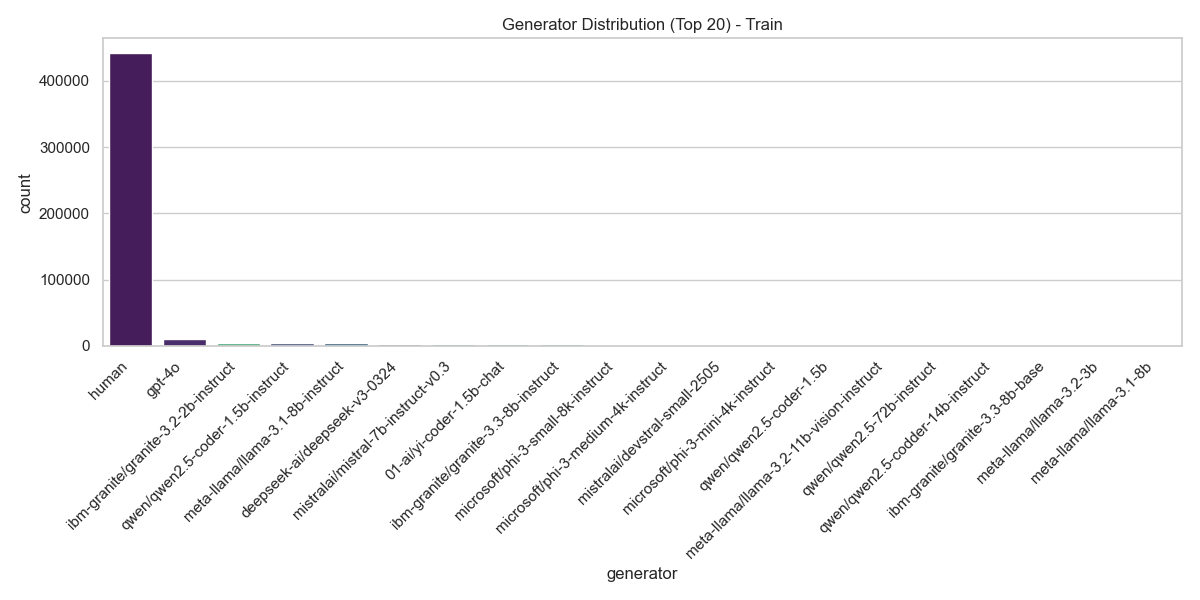
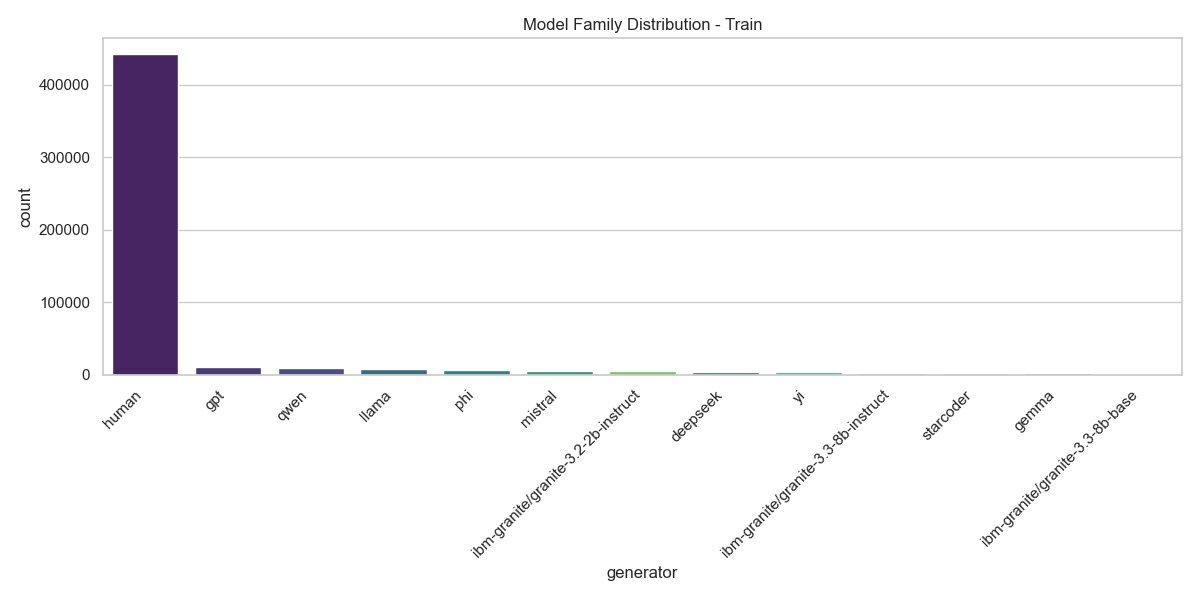
modifiche ai readme

diff --git a/info_dataset/info_dataset_subTaskB.py b/info_dataset/info_dataset_subTaskB.py
@@ -12,17 +12,43 @@ load_dotenv()
 # Base paths
 BASE_DATA_PATH = os.getenv("DATA_PATH", "./data")
 TASK_B_DIR = os.path.join(BASE_DATA_PATH, "Task_B")
-IMG_PATH = os.getenv("IMG_PATH", "./img_TaskB")
+IMG_PATH = os.getenv("IMG_PATH", "img/img_TaskB")
 
 # Ensure output directory exists
 os.makedirs(IMG_PATH, exist_ok=True)
 
-# File configuration
 FILES = {
     "Train": "train.parquet",
     "Validation": "validation.parquet",
-    "Test": "test.parquet"
+    "Test": "test_sample.parquet"
 }
+
+# -----------------------------------------------------------------------------
+# Label Normalization Logic
+# -----------------------------------------------------------------------------
+def map_to_family(model_name: str) -> str:
+    """
+    Mappa le 31 varianti specifiche in 11 famiglie di modelli principali.
+    Logica basata sulla presenza di sottostringhe.
+    """
+    if pd.isna(model_name):
+        return "unknown"
+        
+    name = str(model_name).lower().strip()
+
+    if 'llama' in name: return 'llama'
+    if 'gpt' in name: return 'gpt'
+    if 'mistral' in name or 'mixtral' in name: return 'mistral'
+    if 'gemma' in name: return 'gemma'
+    if 'claude' in name: return 'claude'
+    if 'qwen' in name: return 'qwen'
+    if 'phi' in name: return 'phi'
+    if 'deepseek' in name: return 'deepseek'
+    if 'starcoder' in name: return 'starcoder'
+    if 'yi' in name: return 'yi'
+    if 'gemini' in name: return 'gemini'
+    
+    return name
 
 # -----------------------------------------------------------------------------
 # Data Loading & Preprocessing
@@ -47,25 +73,23 @@ def load_and_preprocess(file_name: str) -> pd.DataFrame:
     
     if 'generator' in df.columns:
         df['generator'] = df['generator'].str.lower().str.strip()
+        
+        print(f"   -> Mapping generators (original unique: {df['generator'].nunique()})...")
+        df['generator'] = df['generator'].apply(map_to_family)
+        print(f"   -> Mapped to families (new unique: {df['generator'].nunique()})")
     
-    # 2. Feature Engineering Avanzata
+    # 2. Feature Engineering
     if 'code' in df.columns:
-        # Lunghezza in caratteri
         df['char_length'] = df['code'].str.len()
-        
-        # Lunghezza in linee (utile: alcuni LLM sono più "verticali" di altri)
         df['line_count'] = df['code'].str.count('\n') + 1
-        
-        # Lunghezza in token (approssimazione splitting per spazi)
         df['token_count_approx'] = df['code'].apply(lambda x: len(str(x).split()))
 
-        # Rimuovi snippet vuoti o nulli
+        # Rimuovi snippet vuoti
         initial_len = len(df)
         df = df[df['char_length'] > 0].copy()
         if len(df) < initial_len:
             print(f"   -> Removed {initial_len - len(df)} empty rows.")
 
-        # Preview per display
         df['code_preview'] = df['code'].str[:100].str.replace('\n', '\\n')
     
     return df
@@ -77,82 +101,48 @@ def eda_dataset(df: pd.DataFrame, dataset_name: str):
     if df is None: return
 
     print(f"\n{'='*60}\nEDA REPORT: {dataset_name}\n{'='*60}")
-    
-    # 1. General Stats
     print(f"Total Samples: {len(df)}")
     
-    # Check duplicati
     if 'code' in df.columns:
         num_dupes = df.duplicated(subset=['code']).sum()
         if num_dupes > 0:
-            print(f"\n[WARNING] Found {num_dupes} duplicate code snippets! ({num_dupes/len(df):.2%})")
-        else:
-            print("\n[OK] No exact duplicate code snippets found.")
+            print(f"[WARNING] Found {num_dupes} duplicate snippets.")
 
-    print("\n--- Data Sample ---")
-    # Mostra colonne disponibili dinamicamente
-    cols_available = [c for c in ['generator', 'language', 'line_count', 'code_preview'] if c in df.columns]
-    print(df[cols_available].head())
-    
-    # 2. Class Distribution (Solo se abbiamo le label)
+    # 2. Class Distribution
     if 'generator' in df.columns:
-        print("\n--- Class Distribution (Top 10) ---")
+        print("\n--- Class Distribution (Families) ---")
         class_counts = df['generator'].value_counts()
-        print(class_counts.head(10))
+        print(class_counts)
+        print(f"Total Labels Found: {len(class_counts)}")
         
-        balance_ratio = class_counts.min() / class_counts.max()
-        print(f"\nClass Balance Ratio (Min/Max): {balance_ratio:.4f}")
-        if balance_ratio < 0.1:
-            print("[ALERT] Dataset is heavily imbalanced!")
-
-    # 3. Stats sulle lunghezze
-    print("\n--- Length Statistics (Tokens Approx) ---")
-    print(df['token_count_approx'].describe())
+        if len(class_counts) != 11 and dataset_name != "Test":
+            print(f"[NOTE] Attenzione: Trovate {len(class_counts)} label invece di 11.")
 
     # ---------------------------------------
     # Visualizations
     # ---------------------------------------
     sns.set_theme(style="whitegrid")
-    palette = "viridis"
-
-    # --- PLOT GENERICI (Funzionano anche per TEST set senza label) ---
     
-    # Plot 1: Istogramma distribuzione lunghezza (Generale)
-    plt.figure(figsize=(10, 6))
-    # Taglio al 95% per leggibilità
-    limit = df['token_count_approx'].quantile(0.95)
-    viz_df = df[df['token_count_approx'] < limit]
-    
-    sns.histplot(viz_df['token_count_approx'], bins=50, kde=True, color="teal")
-    plt.title(f"Token Count Distribution (General) - {dataset_name}")
-    plt.xlabel("Tokens (Approx)")
-    plt.tight_layout()
-    plt.savefig(os.path.join(IMG_PATH, f"{dataset_name}_token_dist_general.png"))
-    plt.close()
-
-    # --- PLOT SPECIFICI (Solo per TRAIN/VAL con label) ---
-
-    # Plot A: Class Balance
+    # Plot A: Class Balance (Aggiornato per le famiglie)
     if 'generator' in df.columns:
         plt.figure(figsize=(12, 6))
-        class_counts = df['generator'].value_counts()
-        top_classes = class_counts.head(20).index
-        sns.countplot(data=df[df['generator'].isin(top_classes)], x='generator', order=top_classes, palette=palette, hue='generator', legend=False)
-        plt.title(f"Generator Distribution (Top 20) - {dataset_name}")
+        sns.countplot(data=df, x='generator', order=df['generator'].value_counts().index, palette="viridis", hue='generator', legend=False)
+        plt.title(f"Model Family Distribution - {dataset_name}")
         plt.xticks(rotation=45, ha='right')
         plt.tight_layout()
         plt.savefig(os.path.join(IMG_PATH, f"{dataset_name}_class_dist.png"))
         plt.close()
 
-    # Plot B: Token Length vs Generator
+    # Plot B: Token Length vs Generator Family
     if 'generator' in df.columns:
         plt.figure(figsize=(14, 8))
         limit = df['token_count_approx'].quantile(0.95)
         viz_df = df[df['token_count_approx'] < limit]
+        
         order = viz_df.groupby('generator')['token_count_approx'].median().sort_values(ascending=False).index
         
         sns.boxplot(data=viz_df, x='generator', y='token_count_approx', order=order, palette="coolwarm", hue='generator', legend=False)
-        plt.title(f"Token Count by Generator - {dataset_name}")
+        plt.title(f"Token Count by Model Family - {dataset_name}")
         plt.xticks(rotation=45, ha='right')
         plt.tight_layout()
         plt.savefig(os.path.join(IMG_PATH, f"{dataset_name}_token_boxplot.png"))
@@ -160,19 +150,19 @@ def eda_dataset(df: pd.DataFrame, dataset_name: str):
 
     # Plot C: Heatmap
     if 'generator' in df.columns and 'language' in df.columns:
-        plt.figure(figsize=(12, 10))
-        top_langs = df['language'].value_counts().head(15).index
+        plt.figure(figsize=(12, 8))
+        top_langs = df['language'].value_counts().head(10).index
         filtered_df = df[df['language'].isin(top_langs)]
+        
         crosstab = pd.crosstab(filtered_df['generator'], filtered_df['language'], normalize='index')
         sns.heatmap(crosstab, annot=True, fmt='.2f', cmap="Blues", cbar_kws={'label': 'Probability'})
-        plt.title(f"Generator vs Language Probability - {dataset_name}")
+        plt.title(f"Model Family vs Language Probability - {dataset_name}")
         plt.tight_layout()
         plt.savefig(os.path.join(IMG_PATH, f"{dataset_name}_heatmap_norm.png"))
         plt.close()
 
     print(f"Images saved to {IMG_PATH}")
     
-    # Helper for Map
     if dataset_name == "Train" and 'generator' in df.columns:
         print("\n" + "="*50)
         print("COPY THIS MAP TO src/dataset/dataset.py")
@@ -184,18 +174,16 @@ def eda_dataset(df: pd.DataFrame, dataset_name: str):
         print("}")
         print(f"NUM_LABELS = {len(generators)}")
         print("="*50 + "\n")
+
 # -----------------------------------------------------------------------------
 # Main Execution
 # -----------------------------------------------------------------------------
 if __name__ == "__main__":
-    # Load Train
     train_df = load_and_preprocess(FILES["Train"])
     eda_dataset(train_df, "Train")
 
-    # Load Validation
     val_df = load_and_preprocess(FILES["Validation"])
     eda_dataset(val_df, "Validation")
 
-    # Test Validation
     test_df = load_and_preprocess(FILES["Test"])
     eda_dataset(test_df, "Test")

diff --git a/info_dataset/info_dataset_subtaskC.py b/info_dataset/info_dataset_subtaskC.py
@@ -12,7 +12,7 @@ load_dotenv()
 # Base paths
 BASE_DATA_PATH = os.getenv("DATA_PATH", "./data")
 TASK_C_DIR = os.path.join(BASE_DATA_PATH, "Task_C")
-IMG_PATH = os.getenv("IMG_PATH", "./img_TaskC")
+IMG_PATH = os.getenv("IMG_PATH", "./img/img_TaskC")
 
 # Ensure output directory exists
 os.makedirs(IMG_PATH, exist_ok=True)
@@ -21,7 +21,7 @@ os.makedirs(IMG_PATH, exist_ok=True)
 FILES = {
     "Train": "train.parquet",
     "Validation": "validation.parquet",
-    "Test": "test.parquet"
+    "Test": "test_sample.parquet"
 }
 
 # -----------------------------------------------------------------------------

diff --git a/info_dataset/info_dataset_subTaskA.py b/info_dataset/info_dataset_subTaskA.py
@@ -11,7 +11,7 @@ load_dotenv()
 # Path
 # ---------------------------------------
 data_path = os.getenv("DATA_PATH")
-img_path = os.getenv("IMG_PATH", "./img_TaskA")
+img_path = os.getenv("IMG_PATH", "./img/img_TaskA")
 os.makedirs(img_path, exist_ok=True)
 
 files = {

diff --git a/src/src_TaskB/README.md b/src/src_TaskB/README.md
@@ -37,6 +37,7 @@ Evidenzia il forte sbilanciamento verso la classe *Human* e le differenze di fre
 <div style="text-align:center">
   <img src="../../img/img_TaskB/Train_class_dist.png" width="45%" alt="Train Class Distribution"/>
   <img src="../../img/img_TaskB/Validation_class_dist.png" width="45%" alt="Validation Class Distribution"/>
+  <img src="../../img/img_TaskB/Test_class_dist.png" width="45%" alt="Test Class Distribution"/>
 </div>
 
 <br>
@@ -47,6 +48,7 @@ Confronto della lunghezza media dei codici prodotti. I Boxplot (ordinati per med
 <div style="text-align:center">
   <img src="../../img/img_TaskB/Train_token_boxplot.png" width="45%" alt="Train Token Boxplot"/>
   <img src="../../img/img_TaskB/Validation_token_boxplot.png" width="45%" alt="Validation Token Boxplot"/>
+  <img src="../../img/img_TaskB/Test_token_boxplot.png" width="45%" alt="Test Token Boxplot"/>
 </div>
 
 <br>
@@ -57,6 +59,7 @@ Mostra la probabilità condizionata che un certo generatore produca codice in un
 <div style="text-align:center">
   <img src="../../img/img_TaskB/Train_heatmap_norm.png" width="45%" alt="Train Heatmap"/>
   <img src="../../img/img_TaskB/Validation_heatmap_norm.png" width="45%" alt="Validation Heatmap"/>
+  <img src="../../img/img_TaskB/Test_heatmap_norm.png" width="45%" alt="Test Heatmap"/>
 </div>
 
 Queste informazioni aiutano a capire:

diff --git a/src/src_TaskC/README.md b/src/src_TaskC/README.md
@@ -44,6 +44,7 @@ Analisi della lunghezza degli snippet (senza outlier estremi). In task di "Mixed
 <div style="text-align:center">
   <img src="../../img/img_TaskC/Train_length_dist.png" width="45%" alt="Train Length Distribution"/>
   <img src="../../img/img_TaskC/Validation_length_dist.png" width="45%" alt="Validation Length Distribution"/>
+  <img src="../../img/img_TaskC/Test_Sample_length_dist.png" width="45%" alt="Test Length Distribution"/>
 </div>
 
 <br>
@@ -54,6 +55,7 @@ Panoramica dei linguaggi coinvolti nel task di modifica/generazione ibrida.
 <div style="text-align:center">
   <img src="../../img/img_TaskC/Train_languages.png" width="45%" alt="Train Languages"/>
   <img src="../../img/img_TaskC/Validation_languages.png" width="45%" alt="Validation Languages"/>
+  <img src="../../img/img_TaskC/Test_Sample_languages.png" width="45%" alt="Test Languages"/>
 </div>
 
 Queste informazioni aiutano a definire:
